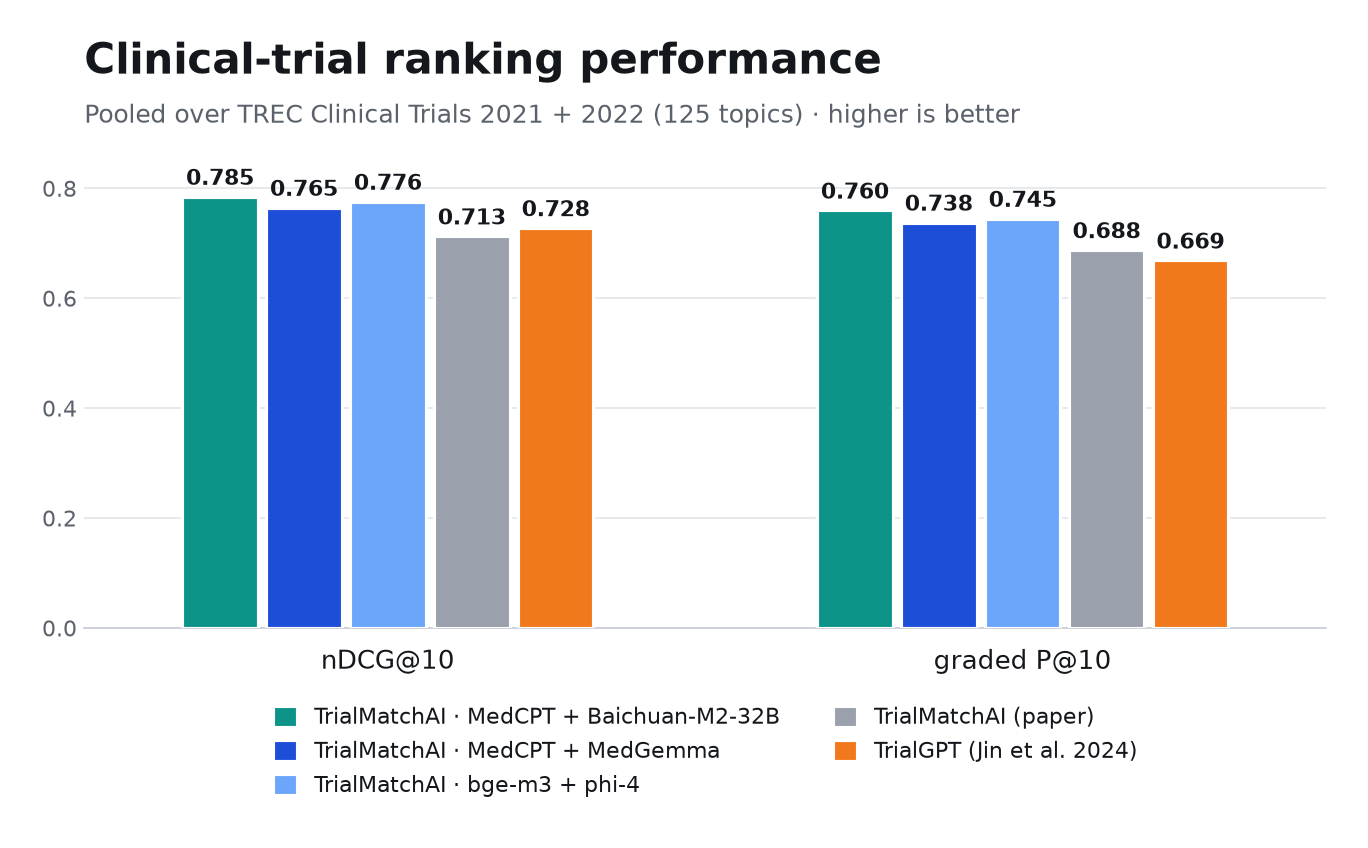
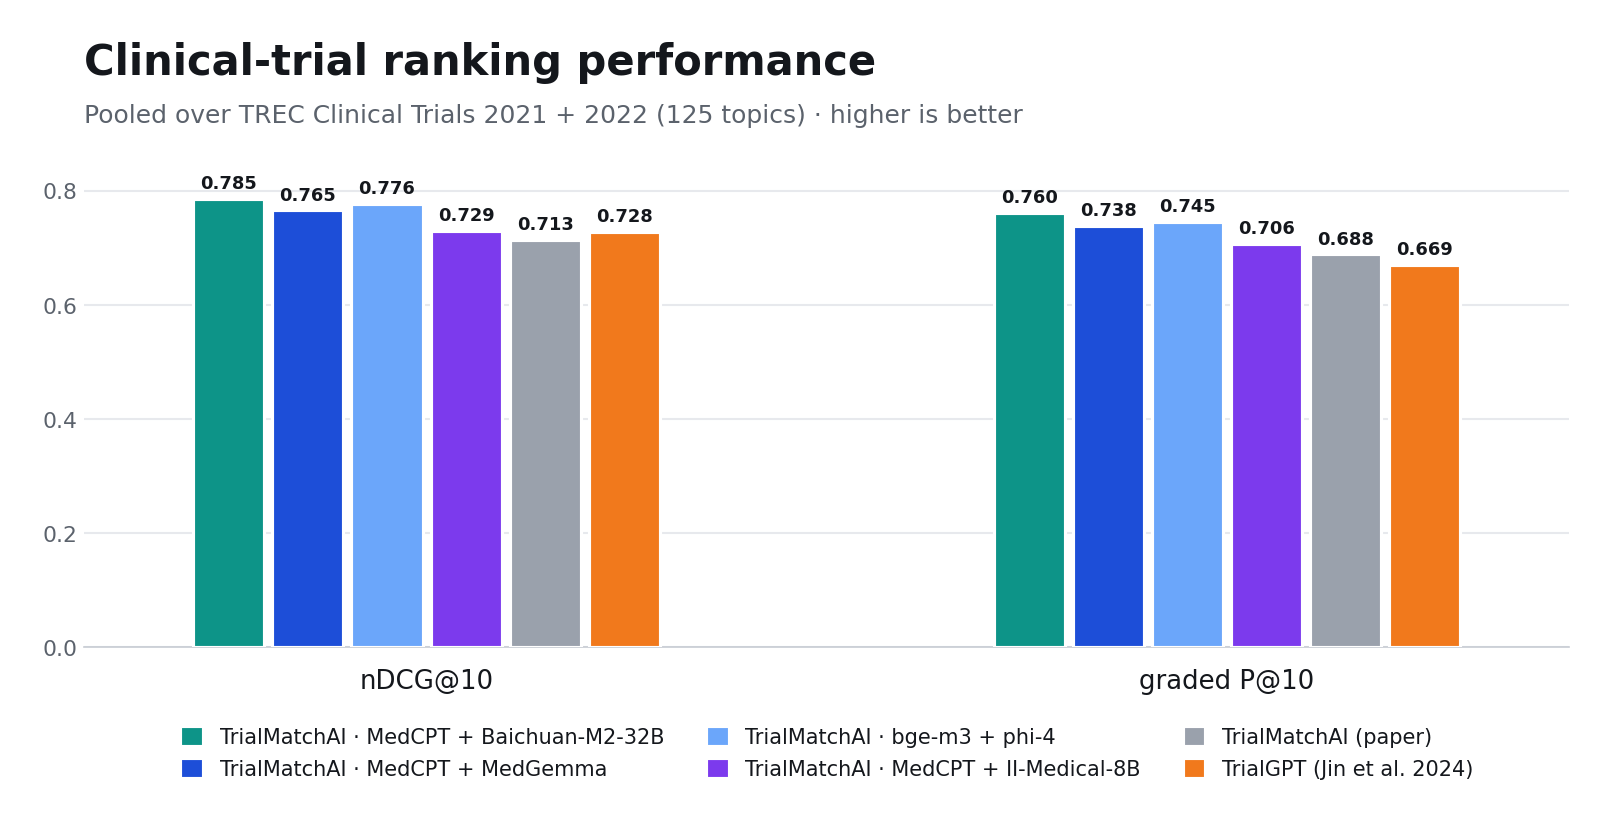
docs(readme): add II-Medical-8B to the performance figure and text
Adds MedCPT + II-Medical-8B as the fourth TrialMatchAI reasoner bar
(nDCG@10 0.729, graded P@10 0.706; 125-topic pooled, condensed) and notes
that even a compact 8B reasoner clears the paper/TrialGPT reference bar.
Widens the grouped-bar figure to fit six systems.

diff --git a/README.md b/README.md
@@ -38,19 +38,19 @@ Trials, models, indexes, and results all live on your own machine.
 
 This release ships two TrialMatchAI configurations: a clinical one that pairs the
 MedCPT retriever with MedGemma, and a general one that pairs bge-m3 with phi-4. The
-bars below also include an experimental thinking-model reasoner, Baichuan-M2-32B (on
-MedCPT retrieval). On the official **TREC Clinical Trials** benchmark (2021 and 2022,
-125 topics pooled), all three rank eligible trials more accurately than the published
-TrialMatchAI system (the “paper” bars) and than **TrialGPT** (Jin et al., *Nature
-Communications* 2024):
+bars below also include two experimental reasoners on MedCPT retrieval: the
+thinking-model Baichuan-M2-32B and a compact II-Medical-8B. On the official **TREC
+Clinical Trials** benchmark (2021 and 2022, 125 topics pooled), all four rank
+eligible trials more accurately than the published TrialMatchAI system (the “paper”
+bars) and than **TrialGPT** (Jin et al., *Nature Communications* 2024):
 
 <picture>
   <source media="(prefers-color-scheme: dark)" srcset="docs/assets/performance_dark.png">
-  <img alt="Clinical-trial ranking performance on TREC CT 2021+2022 (pooled): nDCG@10 and graded P@10 for three TrialMatchAI reasoners (MedCPT+Baichuan-M2-32B, MedCPT+MedGemma, bge-m3+phi-4) vs the paper vs TrialGPT" src="docs/assets/performance_light.png" width="760">
+  <img alt="Clinical-trial ranking performance on TREC CT 2021+2022 (pooled): nDCG@10 and graded P@10 for four TrialMatchAI reasoners (MedCPT+Baichuan-M2-32B, MedCPT+MedGemma, bge-m3+phi-4, MedCPT+II-Medical-8B) vs the paper vs TrialGPT" src="docs/assets/performance_light.png" width="820">
 </picture>
 
 <sub>nDCG@10 and graded P@10 pooled over TREC Clinical Trials 2021 and 2022 (125
-topics), computed on judged trials. The three TrialMatchAI configurations and the
+topics), computed on judged trials. The four TrialMatchAI configurations and the
 paper use the identical ranking metric on the same topics, so those comparisons are
 exact. TrialGPT shows the value reported in Jin et al. (2024); their evaluation also
 includes the SIGIR 2016 cohort, so treat it as an indicative reference rather than a
@@ -59,8 +59,10 @@ small (about 0.01 to 0.02) and comes almost entirely from the 2021 track; on 202
 the bge-m3 + phi-4 config is slightly ahead. Read Baichuan's edge with one caveat: it
 ran with grammar-constrained JSON output so nearly all of its verdicts parsed, while
 MedGemma and phi-4 had roughly 8% parse failures that can drop otherwise-eligible
-trials, so part of the gap is a formatting effect. Reproduce ours with `trialmatchai
-trec --tracks "21 22"`.</sub>
+trials, so part of the gap is a formatting effect. At the small-model end,
+II-Medical-8B is the most compact reasoner here yet still matches TrialGPT on nDCG@10
+and beats it on graded P@10, so even an 8B model clears the reference bar. Reproduce
+ours with `trialmatchai trec --tracks "21 22"`.</sub>
 
 **Retrieval recall by embedder.** This is the share of eligible trials (qrels
 grade 2) that the first-level search surfaces among its top *k* candidates, across
